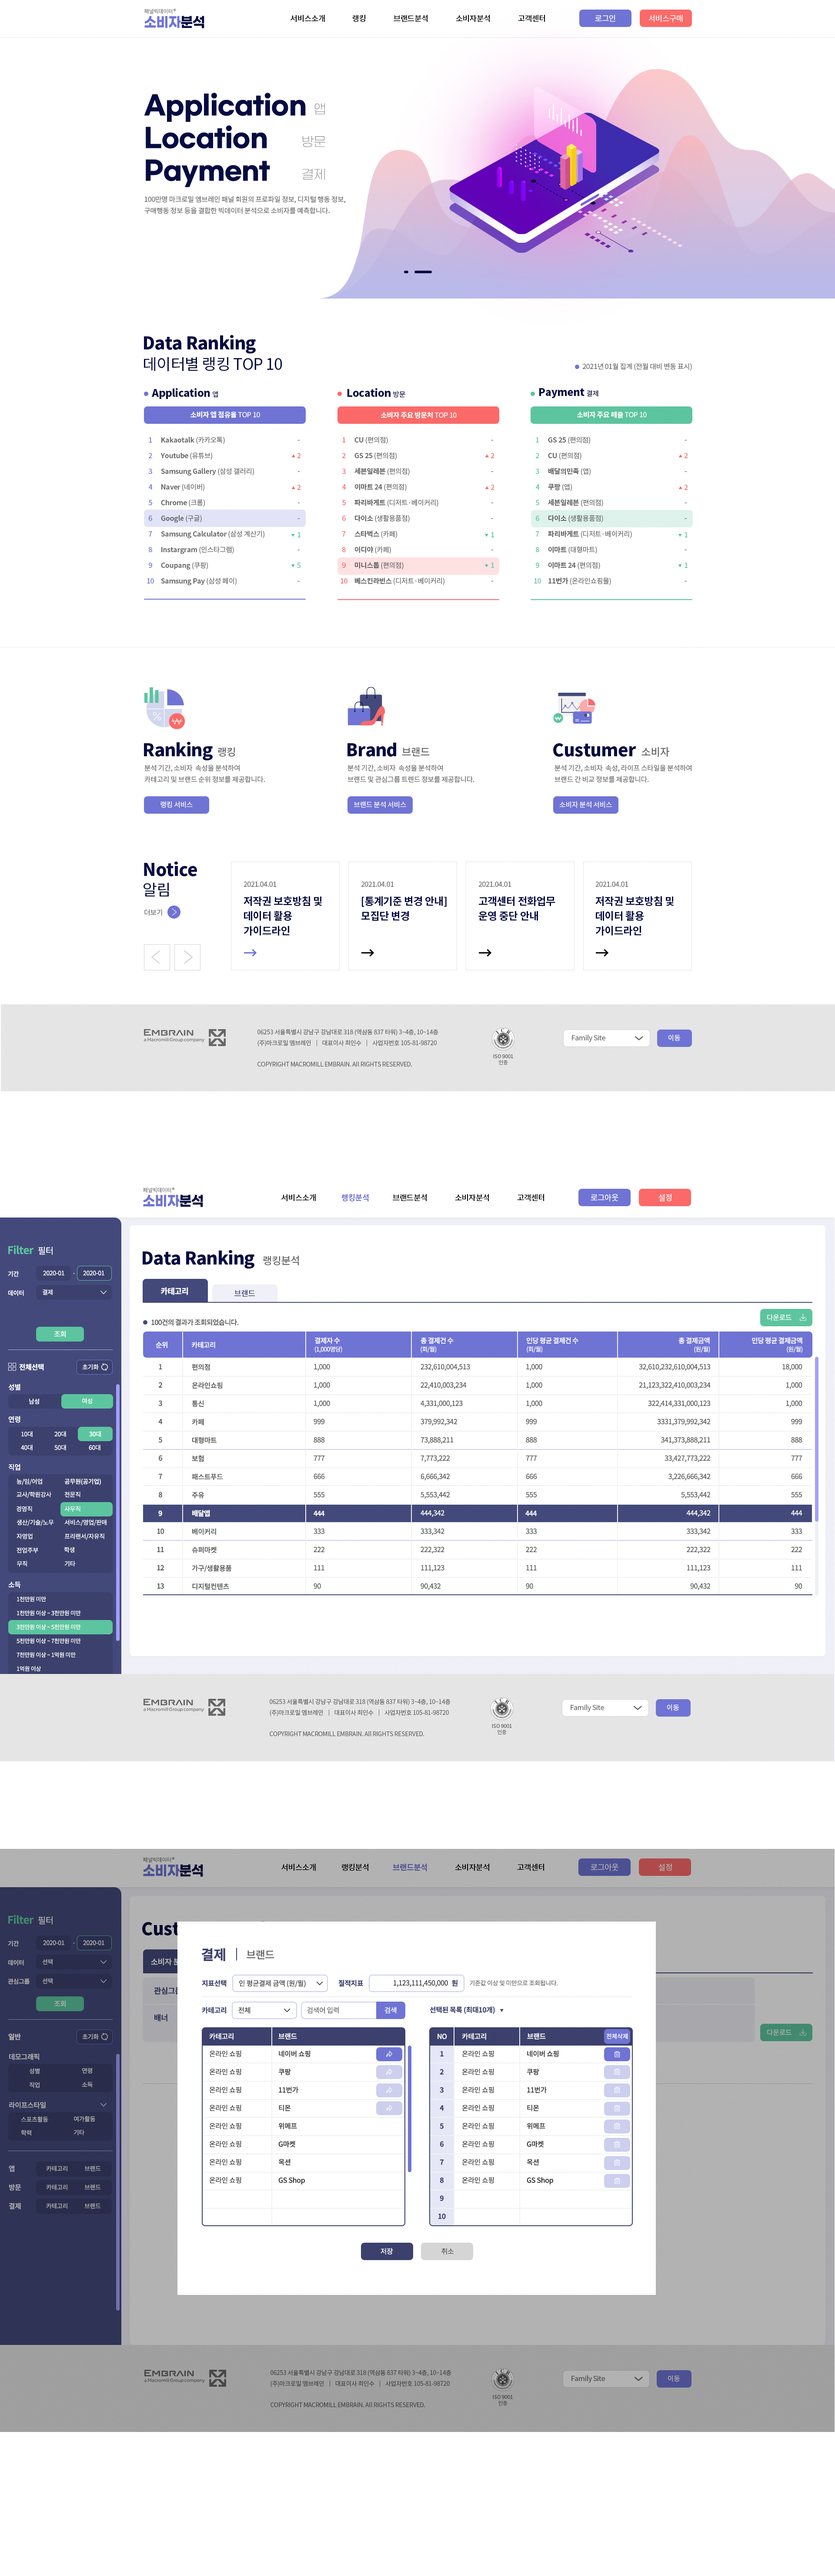
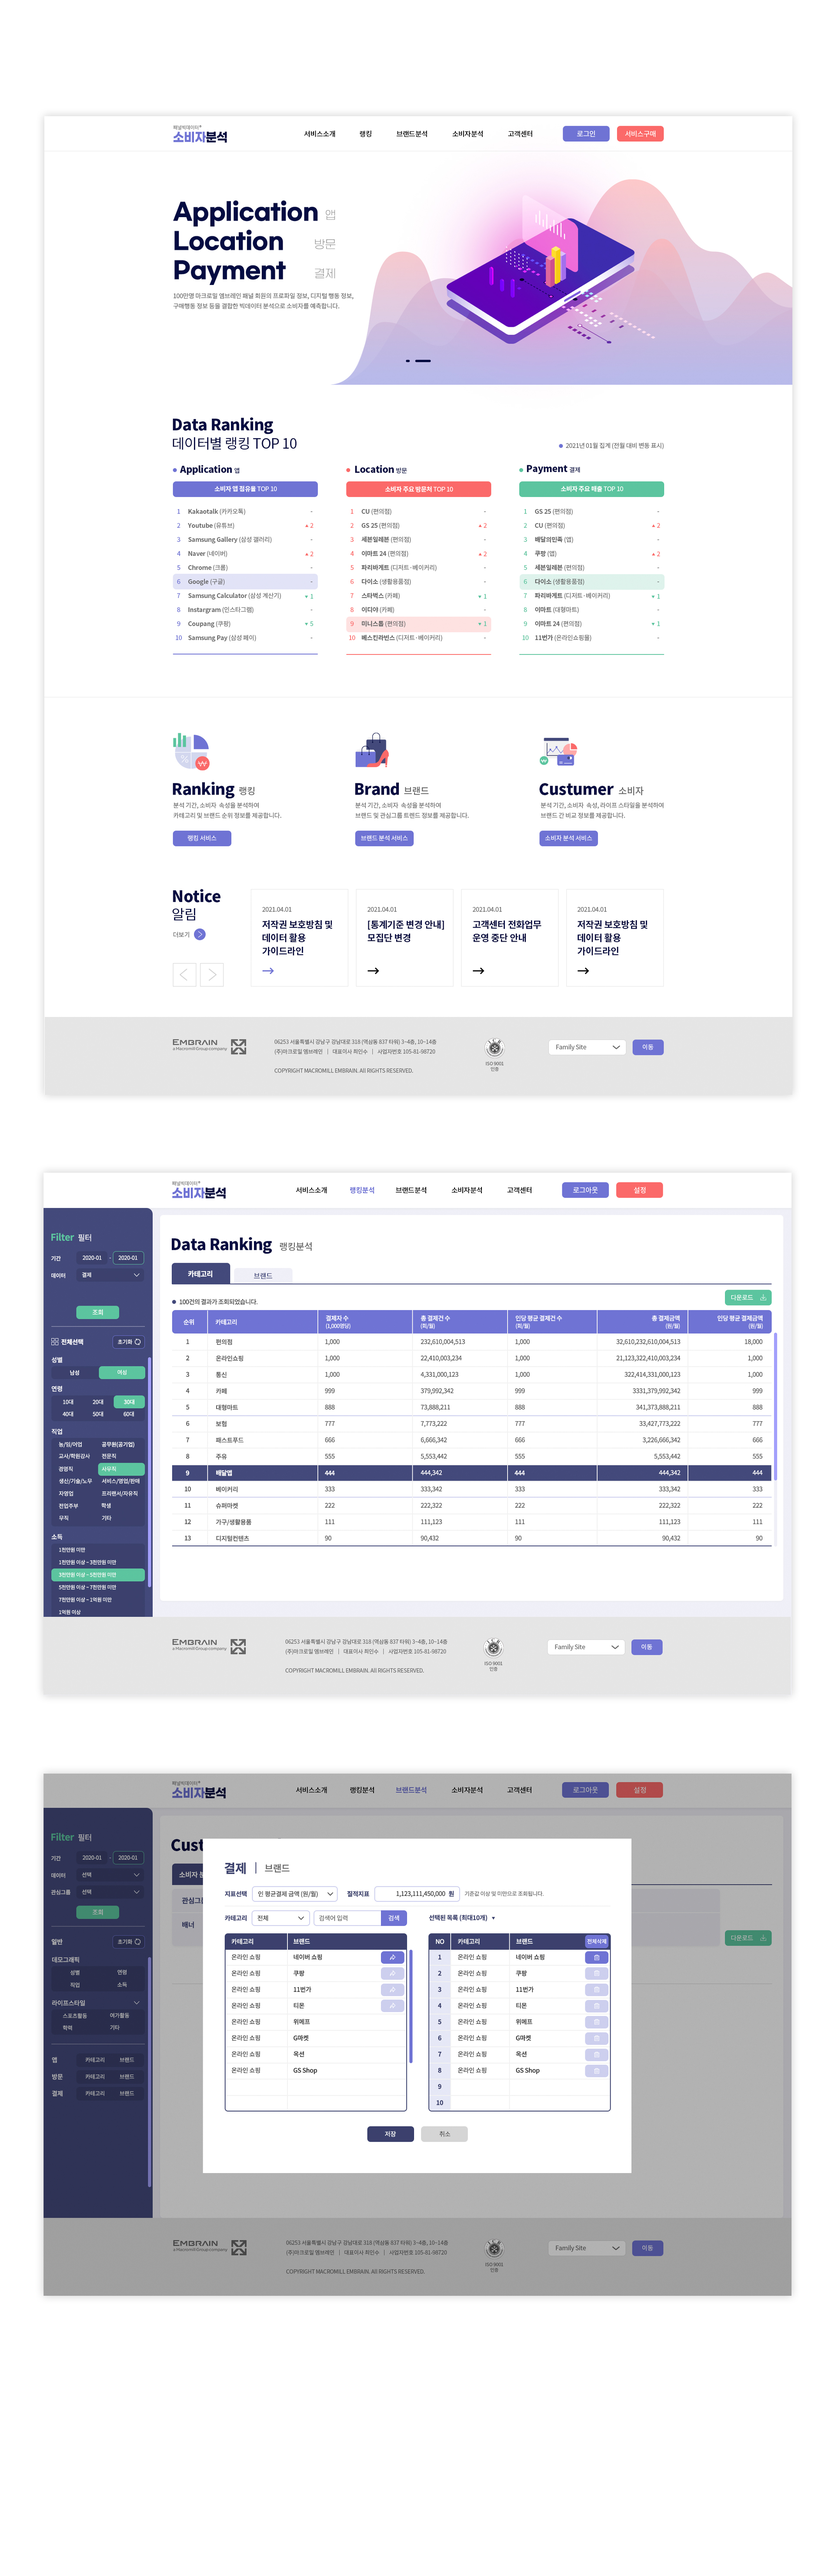
1차 완료

diff --git a/asset/scss/style.scss b/asset/scss/style.scss
@@ -423,7 +423,7 @@ section {
 		& > p {
 			position: relative;
 			left: 40px;
-			margin-top: 1em;
+			// margin-top: 1em;
 			font-size: 18px;
 			line-height: 1.6;
 
@@ -442,7 +442,8 @@ section {
 				white-space: nowrap;
 			}
 			&:nth-of-type(4) {
-				margin: 0;
+				// margin: 0;
+				margin-top: 2em;
 				font-size: 24px;
 				font-weight: 700;
 			}

diff --git a/asset/css/style.css b/asset/css/style.css
@@ -398,7 +398,6 @@ section {
 .section03 .layout_center > p {
   position: relative;
   left: 40px;
-  margin-top: 1em;
   font-size: 18px;
   line-height: 1.6;
 }
@@ -420,7 +419,7 @@ section {
 }
 
 .section03 .layout_center > p:nth-of-type(4) {
-  margin: 0;
+  margin-top: 2em;
   font-size: 24px;
   font-weight: 700;
 }
